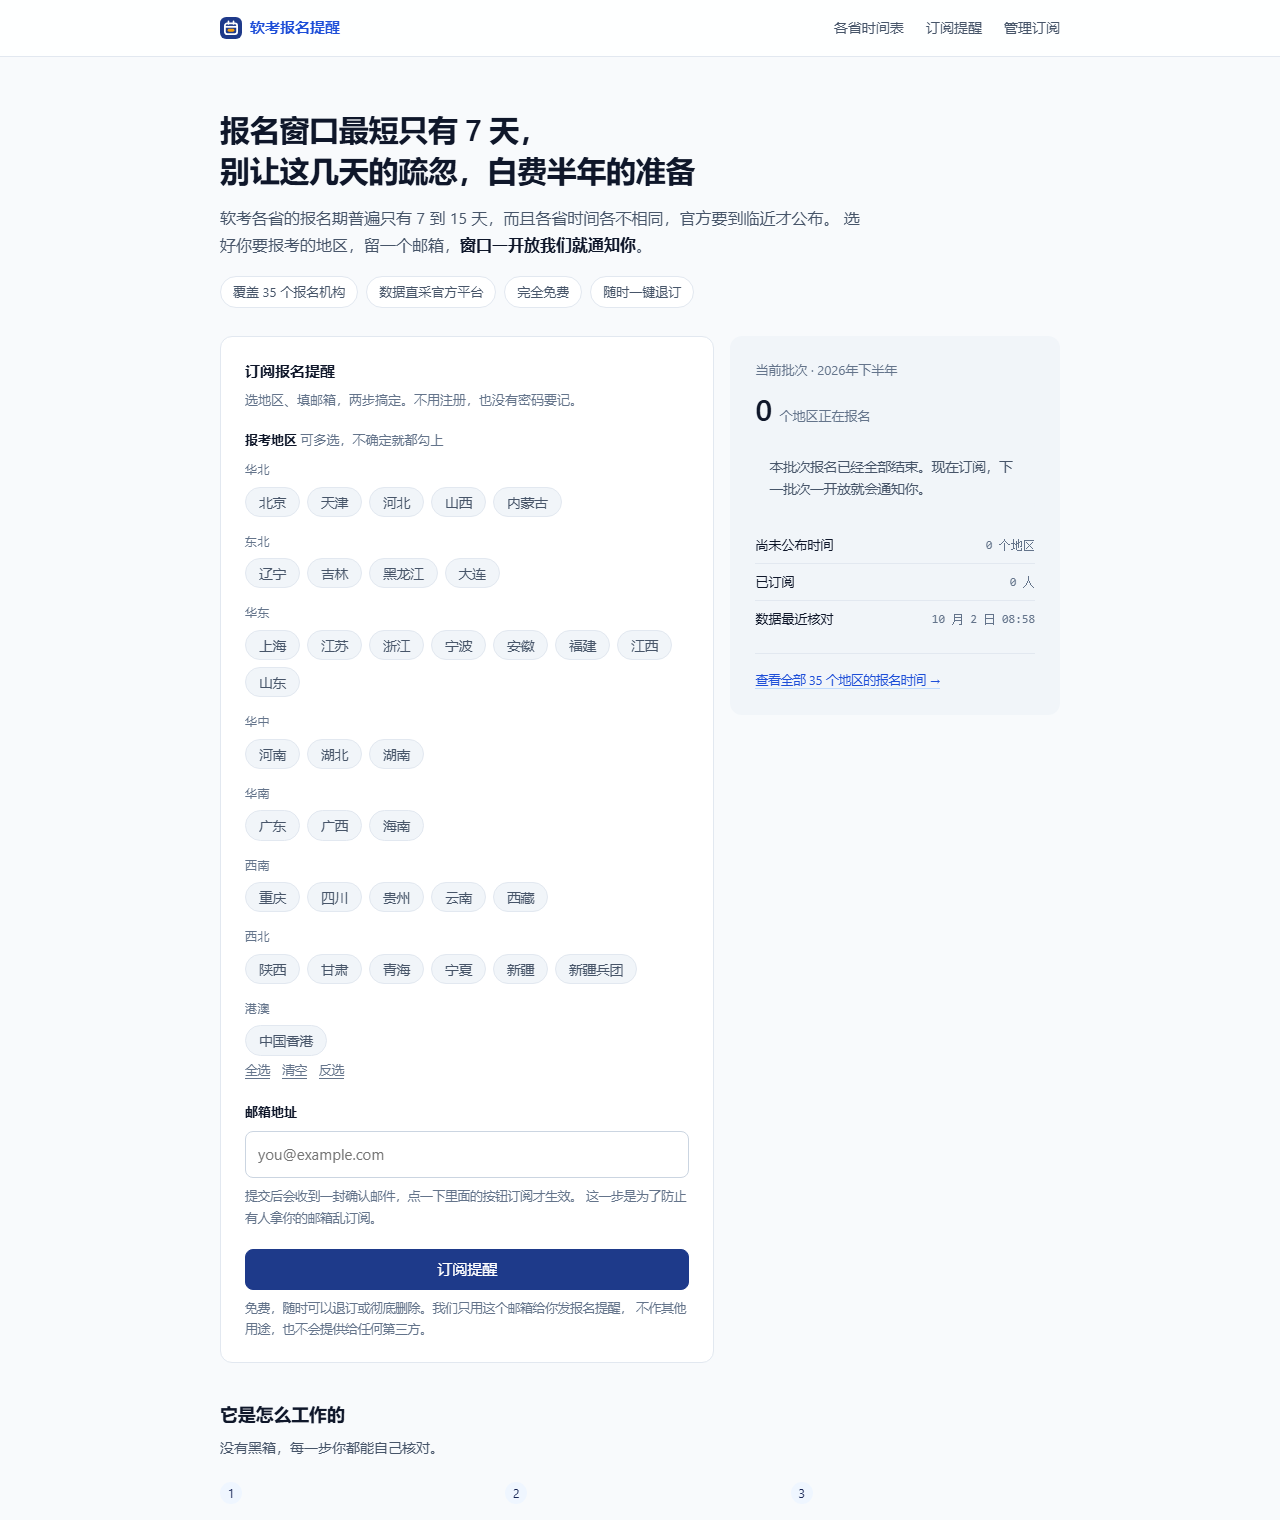
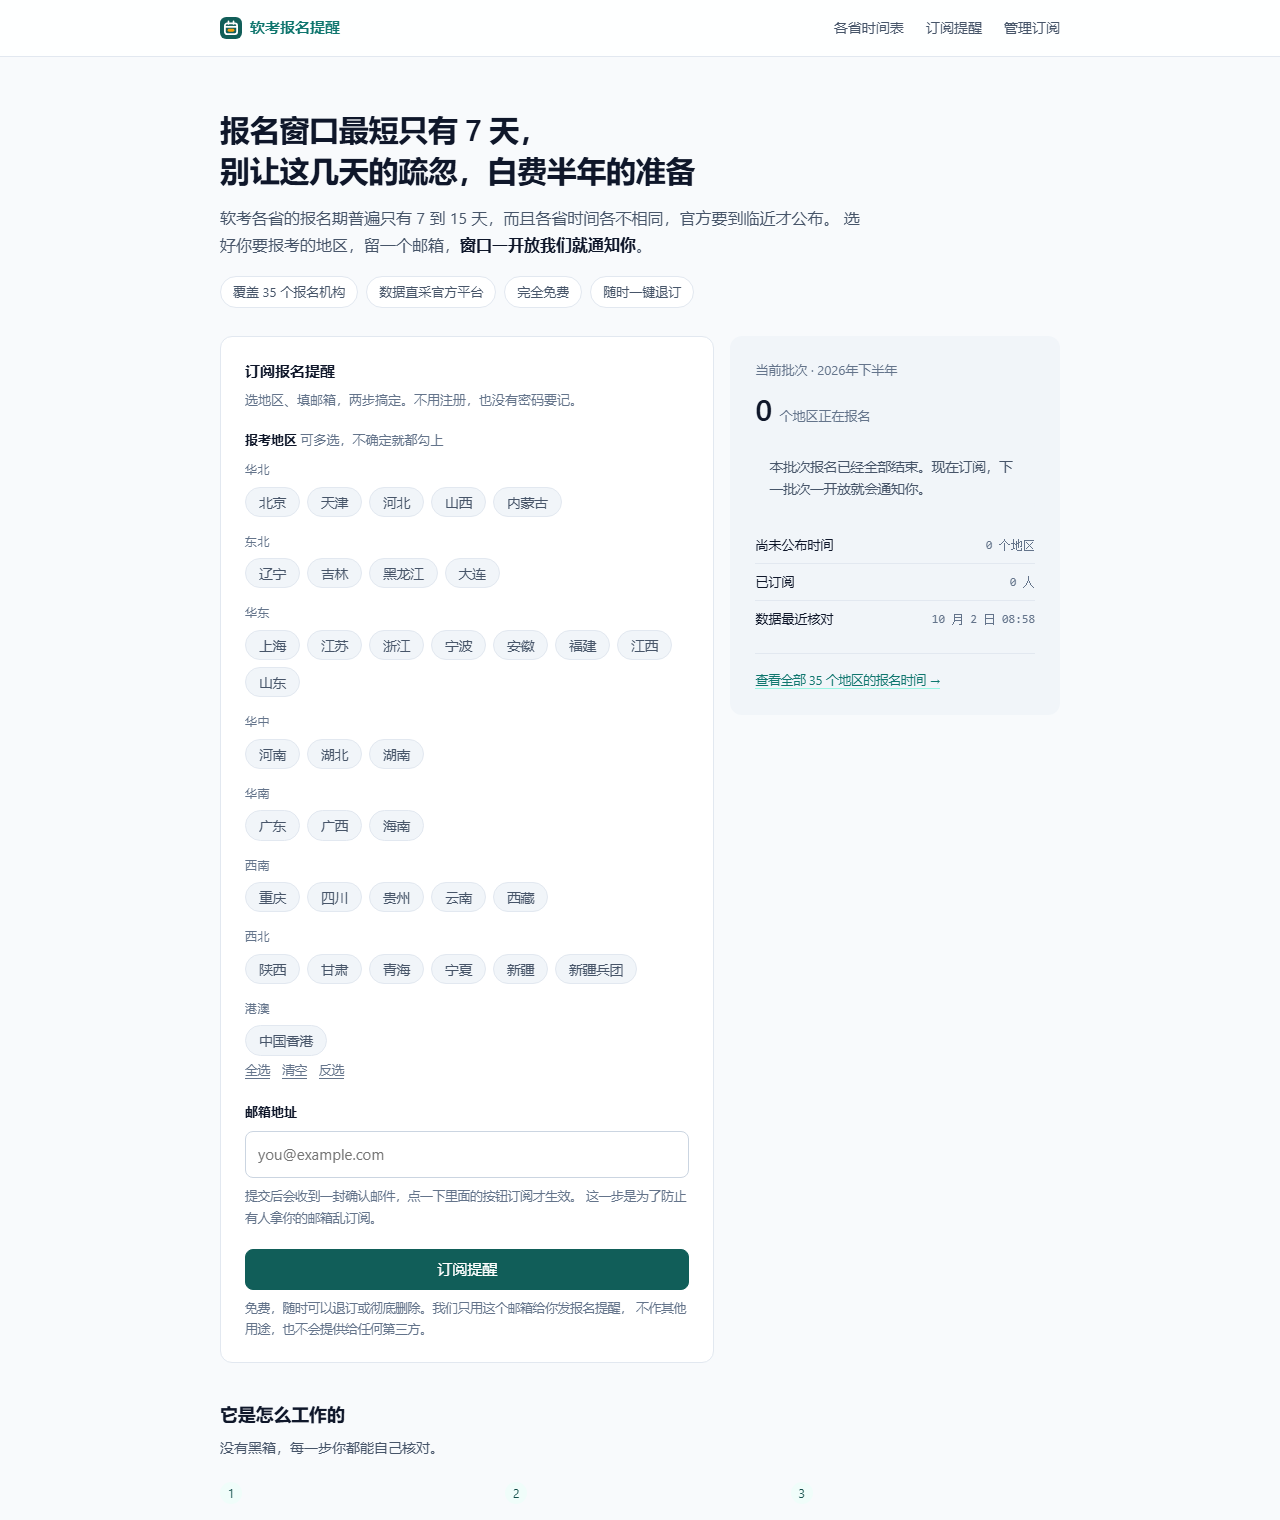
整站配色第四版：品牌色靛蓝换松黛（深松绿）
- style.css 品牌六变量换松绿一族，焦点环 rgba 同步，注释对比度数值实测
- logo.svg 底板 #1e3a8a -> #115e59，白日历 + 琥珀窗口期不变
- 邮件三模板内联品牌色同步（色条/站名/CTA/链接）
- DESIGN.md 品牌标记一节补第四版演进
- docs 两张 README 截图按原尺寸重拍

硬约束保留：琥珀仍纯语义色、logo 底板跨主题、中性与语义色不动。

diff --git a/ruankao/static/style.css b/ruankao/static/style.css
@@ -1,20 +1,24 @@
 /* 软考报名提醒 — 样式
-   设计取向：冷灰底 + 深靛蓝品牌色，商务、克制。
+   设计取向：冷灰底 + 深松绿品牌色，清新、克制。
    不用框架，不用构建步骤，改一行刷新就能看到效果——
    开源项目最容易被劝退的地方就是构建链。
 
    配色系统（改之前先读这段）：
-   - 中性色是冷灰（slate），与靛蓝同温，不掺暖调
-   - 品牌色与 logo（static/logo.svg）同源，分五档：
-       --brand        亮靛蓝，只用于焦点环等装饰
-       --brand-ink    链接与品牌文字（浅底上对比 6.4:1）
-       --brand-deep   主按钮底色（白字对比 10.4:1）
-       --brand-strong 选中态文字与悬停（对比更高）
+   - 中性色是冷灰（slate），不掺暖调
+   - 品牌色与 logo（static/logo.svg）同源，分五档（第四版，松黛）：
+       --brand        亮松绿，只用于焦点环等装饰
+       --brand-ink    链接与品牌文字（白底上对比 5.5:1，过 AA）
+       --brand-deep   主按钮底色（白字对比 7.6:1，过 AAA）
+       --brand-strong 选中态文字与悬停（在 --brand-soft 上约 9:1）
        --brand-soft / --brand-line   浅底与描边
+     第三版的深靛蓝（#1e3a8a 一族）已整体替换；靛蓝与政务站点撞色，
+     松绿在同为深色商务底的前提下把品牌拉开了。
    - 琥珀现在是**纯语义色**（warn 一族 = 临近/需要注意），不再兼任品牌色。
      它只剩两个出处：状态徽标，以及 logo 里那个被标出来的窗口期色块。
-     深蓝底 + 琥珀强调是 logo 的既定搭配，别把琥珀又提回品牌位。
-   - 语义状态色（ok/warn/hot）独立于品牌色，只用于状态
+     松绿底 + 琥珀强调是 logo 的既定搭配（互补色，比靛蓝底上更跳），
+     别把琥珀又提回品牌位。
+   - 语义状态色（ok/warn/hot）独立于品牌色，只用于状态。
+     注意 --ok 是草绿、品牌是青绿，色相差得够开，不会混。
    - 文字主色保持深冷灰——可读性优先，不赶"彩色文字"的时髦
 */
 
@@ -35,13 +39,13 @@
   --surface: #ffffff;
   --surface-2: #f1f5f9;
 
-  /* 品牌：深靛蓝（与 logo 同源） */
-  --brand: #2563eb;
-  --brand-ink: #1d4ed8;
-  --brand-deep: #1e3a8a;
-  --brand-strong: #172554;
-  --brand-soft: #eff6ff;
-  --brand-line: #bfdbfe;
+  /* 品牌：深松绿（与 logo 同源） */
+  --brand: #0d9488;
+  --brand-ink: #0f766e;
+  --brand-deep: #115e59;
+  --brand-strong: #134e4a;
+  --brand-soft: #f0fdfa;
+  --brand-line: #99f6e4;
 
   /* 语义状态 */
   --ok: #15803d;
@@ -107,7 +111,7 @@ a:hover { color: var(--brand-deep); border-bottom-color: var(--brand-deep); }
 }
 
   .brand-mark {
-    /* 品牌标记是 SVG（static/logo.svg），自带深靛蓝圆角底板。
+    /* 品牌标记是 SVG（static/logo.svg），自带深松绿圆角底板。
        这里只负责尺寸——不要给它加 background 或 border-radius，
        那会和 SVG 自己的底板叠出双层边。 */
     width: 22px;
@@ -230,7 +234,7 @@ input[type="email"]:focus,
 input[type="text"]:focus,
 input[type="password"]:focus {
   border-color: var(--brand);
-  box-shadow: 0 0 0 3px rgba(37, 99, 235, .16);
+  box-shadow: 0 0 0 3px rgba(13, 148, 136, .16);
 }
 
 .hint {
@@ -284,8 +288,8 @@ input[type="password"]:focus {
 
 .chip span:hover { border-color: var(--line-2); color: var(--ink); }
 
-/* 选中态：浅靛蓝底 + 靛蓝描边 + 深靛蓝文字。
-   刻意不用实心填充——一次可能勾十几个省市，满屏实心蓝块会闹；
+/* 选中态：浅松绿底 + 松绿描边 + 深松绿文字。
+   刻意不用实心填充——一次可能勾十几个省市，满屏实心色块会闹；
    浅底方案既醒目又不至于压过页面 */
 .chip input:checked + span {
   background: var(--brand-soft);
@@ -295,7 +299,7 @@ input[type="password"]:focus {
 }
 
 .chip input:focus-visible + span {
-  box-shadow: 0 0 0 3px rgba(37, 99, 235, .3);
+  box-shadow: 0 0 0 3px rgba(13, 148, 136, .3);
 }
 
 .bulk {

diff --git a/ruankao/emails/layout.html b/ruankao/emails/layout.html
@@ -10,10 +10,10 @@
 <tr><td align="center">
   <table role="presentation" width="100%" cellpadding="0" cellspacing="0" style="max-width:560px;background:#ffffff;border:1px solid #e2e8f0;border-radius:12px;overflow:hidden;">
     {# 顶部品牌色条：与站点 --brand-deep 同源，让邮件一眼认得出是本站发的 #}
-    <tr><td height="3" bgcolor="#1e3a8a" style="height:3px;line-height:3px;font-size:0;background:#1e3a8a;">&nbsp;</td></tr>
+    <tr><td height="3" bgcolor="#115e59" style="height:3px;line-height:3px;font-size:0;background:#115e59;">&nbsp;</td></tr>
     <tr>
       <td style="padding:20px 24px 0;font-family:-apple-system,BlinkMacSystemFont,'Segoe UI','PingFang SC','Hiragino Sans GB','Microsoft YaHei',sans-serif;">
-        <div style="font-size:15px;font-weight:600;color:#1e3a8a;">{{ site_name }}</div>
+        <div style="font-size:15px;font-weight:600;color:#115e59;">{{ site_name }}</div>
       </td>
     </tr>
     <tr>

diff --git a/ruankao/emails/notify.html b/ruankao/emails/notify.html
@@ -25,13 +25,13 @@
 </table>
 
 <table role="presentation" cellpadding="0" cellspacing="0" style="margin:0 0 18px;">
-  <tr><td bgcolor="#1e3a8a" style="border-radius:8px;background:#1e3a8a;">
+  <tr><td bgcolor="#115e59" style="border-radius:8px;background:#115e59;">
     <a href="{{ official_home }}" style="display:inline-block;padding:11px 22px;font-size:14px;font-weight:500;color:#ffffff;text-decoration:none;">前往官方报名平台</a>
   </td></tr>
 </table>
 
 {% if entry_url %}
-<p style="margin:0 0 18px;font-size:13px;color:#475569;">也可以试试<a href="{{ entry_url }}" style="color:#1d4ed8;">本省直达入口</a>（可能要求先登录官方账号）。</p>
+<p style="margin:0 0 18px;font-size:13px;color:#475569;">也可以试试<a href="{{ entry_url }}" style="color:#0f766e;">本省直达入口</a>（可能要求先登录官方账号）。</p>
 {% endif %}
 
 {% if show_feedback %}

diff --git a/ruankao/emails/magic.html b/ruankao/emails/magic.html
@@ -8,7 +8,7 @@
 {% endif %}
 
 <table role="presentation" cellpadding="0" cellspacing="0" style="margin:0 0 18px;">
-  <tr><td bgcolor="#1e3a8a" style="border-radius:8px;background:#1e3a8a;">
+  <tr><td bgcolor="#115e59" style="border-radius:8px;background:#115e59;">
     <a href="{{ magic_url }}" style="display:inline-block;padding:11px 22px;font-size:14px;font-weight:500;color:#ffffff;text-decoration:none;">{{ button_label }}</a>
   </td></tr>
 </table>

diff --git a/DESIGN.md b/DESIGN.md
@@ -196,11 +196,13 @@
 日历上那一段被标出来的色块就是被盯住的那一段。**直白胜于巧妙**：这是个工具，用户扫一眼就该
 明白它管什么。
 
-**配色：深靛蓝底 + 白色日历 + 琥珀窗口期。** 第一版用 `#0f172a` 填满整个图标，
+**配色：深松绿底 + 白色日历 + 琥珀窗口期。** 第一版用 `#0f172a` 填满整个图标，
 在浅色页面上就是一块黑砖，看起来沉闷；第二版换成琥珀底板，因为琥珀当时兼作品牌色和
-「临近、需要注意」的语义色。站点整体转商务风后（第三版，当前），品牌色改为深靛蓝
-`#1e3a8a`，琥珀退回**纯语义色**：深蓝管品牌，琥珀管「这几天要注意」。
-分工比第二版清楚，而且整站只剩这一个暖色，视线会自己落到窗口期上。
+「临近、需要注意」的语义色。第三版站点转商务风，品牌色改为深靛蓝 `#1e3a8a`，
+琥珀退回**纯语义色**。第四版（当前）品牌色改为深松绿 `#115e59`：靛蓝与政务类站点
+撞色太近，松绿在同为深色商务底的前提下把品牌拉开了；松绿管品牌，琥珀管「这几天要注意」，
+且二者是互补色，琥珀在松绿底上比在靛蓝底上更跳。整站仍然只剩这一个暖色，
+视线会自己落到窗口期上。
 
 三条改动前必须知道的约束：
 
@@ -213,7 +215,9 @@
    第一轮的「倒计时弧 + 圆点」方案就栽在这里——128px 很漂亮，16px 糊成一团。
 3. **要在深色标签栏下压测。** 这也是必须留底板的原因。
 
-配色沿用站点品牌色系：`#1e3a8a`（深靛蓝，品牌）、白、`#f59e0b`（琥珀，窗口期强调）。
+配色沿用站点品牌色系：`#115e59`（深松绿，品牌）、白、`#f59e0b`（琥珀，窗口期强调）。
+站点侧的品牌色变量在 `static/style.css` 的 `:root`（`--brand*` 一族），
+邮件模板里的品牌色是内联写死的（邮件客户端不跑 CSS），改品牌色时两处要一起改。
 
 ## 六、反滥用与限流
 
